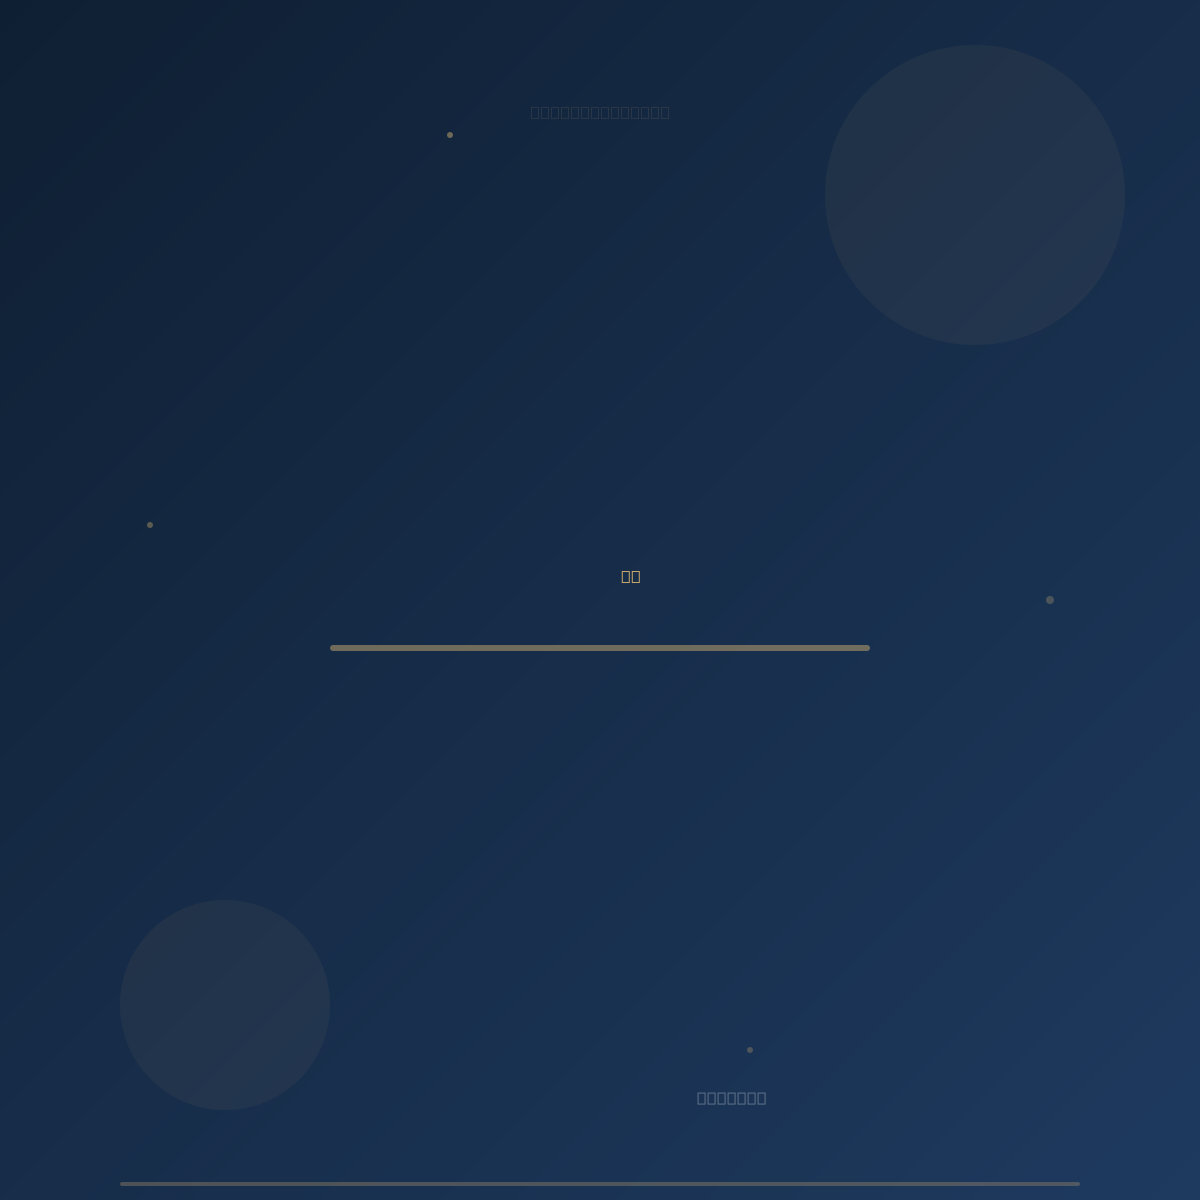
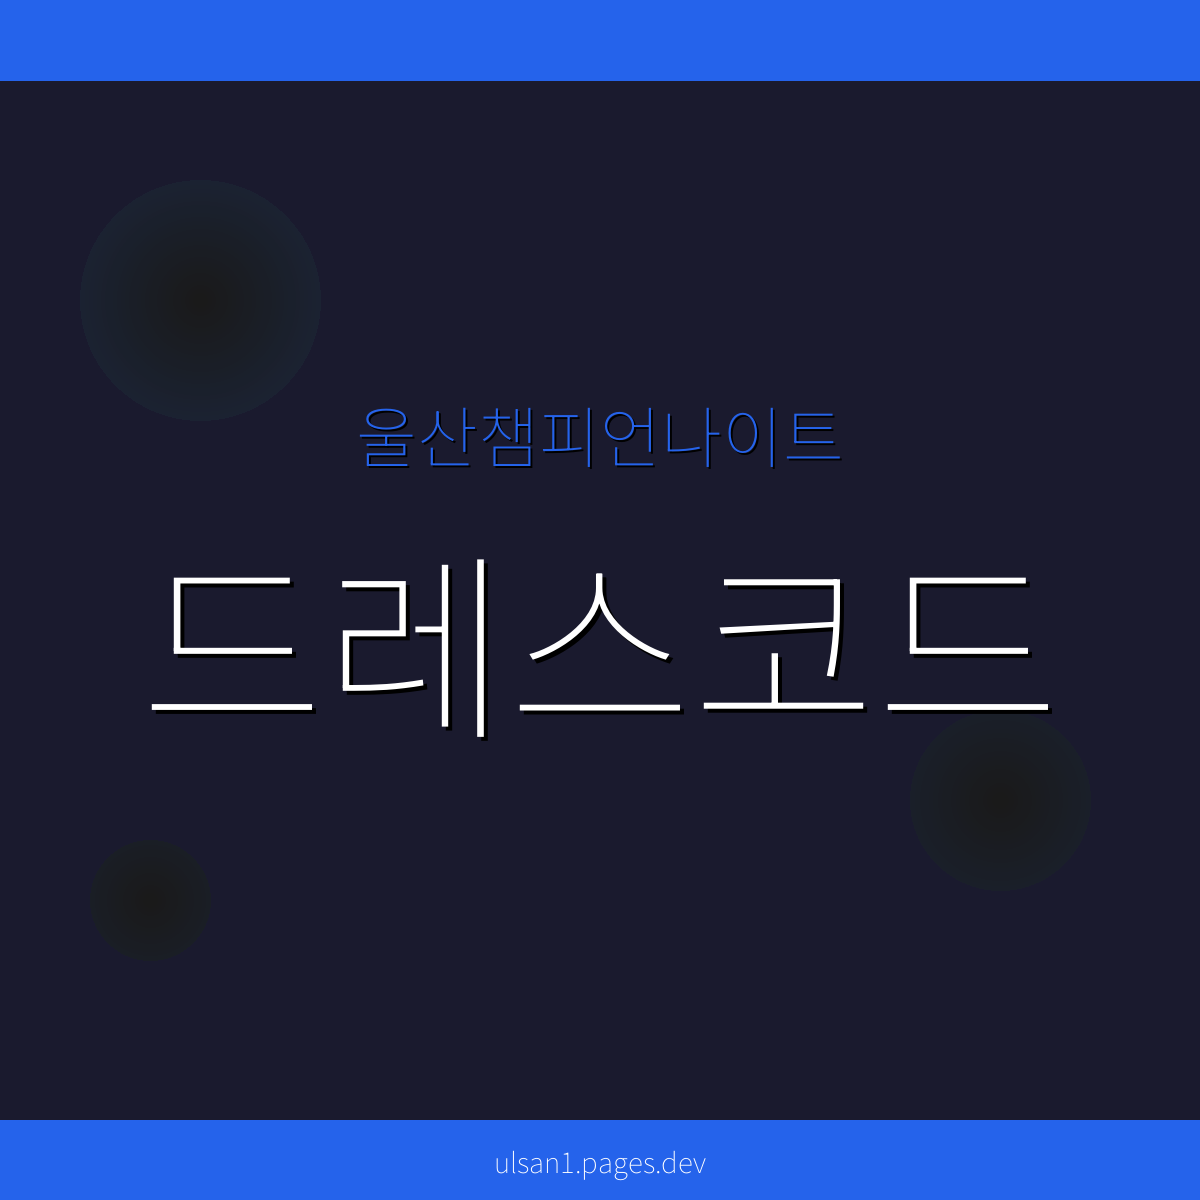
OG 썸네일 이미지 8개 재생성 — 한글 폰트 + 페이지별 고유 색상
- main: "춘자" (보라 #8B5CF6)
- dresscode: "드레스코드" (파랑 #2563EB)
- budget: "예산" (초록 #059669)
- timing: "시간대" (주황 #D97706)
- parking: "주차" (빨강 #DC2626)
- manners: "매너" (보라 #7C3AED)
- nearby: "주변코스" (청록 #0891B2)
- compare: "비교" (핑크 #BE185D)
- 전부 1200x1200 (1:1), Noto Sans CJK 한글 폰트
- generate-og.py 스크립트 포함

diff --git a/generate-og.py b/generate-og.py
@@ -1,0 +1,112 @@
+#!/usr/bin/env python3
+"""OG image generator for ulsan1 landing site — 1200x1200 per page"""
+from PIL import Image, ImageDraw, ImageFont
+import os
+
+DOMAIN = "ulsan1.pages.dev"
+SIZE = 1200
+OUT_DIR = "og"
+PUBLIC_DIR = "public/og"
+
+# Page configs: (filename, main_text, sub_text, accent_color)
+PAGES = [
+    ("main",      "춘자",   "울산챔피언",    "#8B5CF6"),
+    ("dresscode", "드레스코드", "울산챔피언나이트", "#2563EB"),
+    ("budget",    "예산",   "울산챔피언나이트", "#059669"),
+    ("timing",    "시간대",  "울산챔피언나이트", "#D97706"),
+    ("parking",   "주차",   "울산챔피언나이트", "#DC2626"),
+    ("manners",   "매너",   "울산챔피언나이트", "#7C3AED"),
+    ("nearby",    "주변코스", "울산챔피언나이트", "#0891B2"),
+    ("compare",   "비교",   "울산챔피언나이트", "#BE185D"),
+]
+
+def hex_to_rgb(h):
+    h = h.lstrip('#')
+    return tuple(int(h[i:i+2], 16) for i in (0, 2, 4))
+
+CJK_FONT = "/nix/store/f65frf227hfclrxh6kwcvy8cyrii0bv8-noto-fonts-cjk-sans-2.004/share/fonts/opentype/noto-cjk/NotoSansCJK-VF.otf.ttc"
+
+def find_font(size):
+    """Try CJK font first, then fallbacks"""
+    font_paths = [
+        CJK_FONT,
+        "/usr/share/fonts/truetype/noto/NotoSansCJK-Bold.ttc",
+        "/usr/share/fonts/truetype/dejavu/DejaVuSans-Bold.ttf",
+    ]
+    for fp in font_paths:
+        if os.path.exists(fp):
+            try:
+                return ImageFont.truetype(fp, size)
+            except:
+                continue
+    return ImageFont.load_default()
+
+def create_og(filename, main_text, sub_text, accent_hex):
+    img = Image.new('RGB', (SIZE, SIZE), hex_to_rgb("#1a1a2e"))
+    draw = ImageDraw.Draw(img)
+    accent = hex_to_rgb(accent_hex)
+
+    # Top bar
+    draw.rectangle([0, 0, SIZE, 80], fill=accent)
+    # Bottom bar
+    draw.rectangle([0, SIZE-80, SIZE, SIZE], fill=accent)
+
+    # Decorative circles
+    for cx, cy, r, a in [(200, 300, 120, 30), (1000, 800, 90, 20), (150, 900, 60, 15)]:
+        for ri in range(r, 0, -1):
+            alpha_val = int(a * ri / r)
+            c = (accent[0], accent[1], accent[2])
+            blend = tuple(int(26 + (ci - 26) * alpha_val / 255) for ci in c)
+            draw.ellipse([cx-ri, cy-ri, cx+ri, cy+ri], fill=blend)
+
+    # Main text — find biggest font that fits 80% width
+    target_width = int(SIZE * 0.8)
+    font_size = 400
+    while font_size > 40:
+        font = find_font(font_size)
+        bbox = draw.textbbox((0, 0), main_text, font=font)
+        tw = bbox[2] - bbox[0]
+        if tw <= target_width:
+            break
+        font_size -= 10
+
+    # Draw main text centered
+    bbox = draw.textbbox((0, 0), main_text, font=font)
+    tw, th = bbox[2] - bbox[0], bbox[3] - bbox[1]
+    x = (SIZE - tw) // 2
+    y = (SIZE - th) // 2 - 20
+    # Shadow
+    draw.text((x+4, y+4), main_text, fill=(0, 0, 0), font=font)
+    # Main
+    draw.text((x, y), main_text, fill=(255, 255, 255), font=font)
+
+    # Sub text above main
+    sub_size = max(font_size // 3, 36)
+    sub_font = find_font(sub_size)
+    bbox_sub = draw.textbbox((0, 0), sub_text, font=sub_font)
+    stw = bbox_sub[2] - bbox_sub[0]
+    sx = (SIZE - stw) // 2
+    sy = y - sub_size - 40
+    draw.text((sx+2, sy+2), sub_text, fill=(0, 0, 0), font=sub_font)
+    draw.text((sx, sy), sub_text, fill=accent, font=sub_font)
+
+    # Bottom text
+    bottom_font = find_font(28)
+    bt = f"ulsan1.pages.dev"
+    bbox_bt = draw.textbbox((0, 0), bt, font=bottom_font)
+    btw = bbox_bt[2] - bbox_bt[0]
+    draw.text(((SIZE - btw) // 2, SIZE - 60), bt, fill=(255, 255, 255, 200), font=bottom_font)
+
+    # Save to both directories
+    for d in [OUT_DIR, PUBLIC_DIR]:
+        os.makedirs(d, exist_ok=True)
+        path = os.path.join(d, f"{filename}.png")
+        img.save(path, "PNG", optimize=True)
+        print(f"  Saved: {path} ({os.path.getsize(path)//1024}KB)")
+
+if __name__ == "__main__":
+    print("Generating OG images (1200x1200)...")
+    for fname, main, sub, color in PAGES:
+        print(f"\n[{fname}] {main} / {sub}")
+        create_og(fname, main, sub, color)
+    print("\nDone! All OG images generated.")
